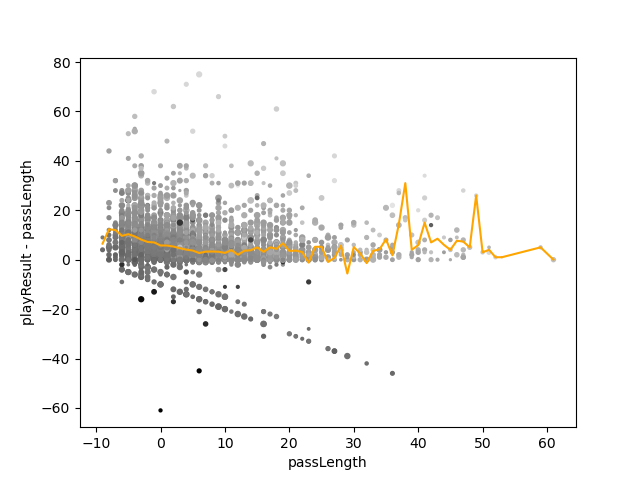
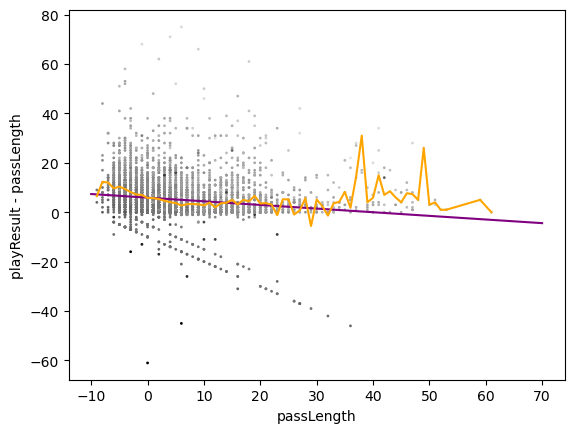
fix some typos, add regression and conclusion bits

diff --git a/final-report/report.tex b/final-report/report.tex
@@ -334,7 +334,7 @@ performed (location, likelihood of success and number of tackles). To this end,
 we aimed to find correlations between factors such as height and
 weight of player, and frequency and likelihood of success of tackles, as well as
 frequency analysis for examining which teams/players tend to engage in tackles.
-Analysis methods included both the naives Bayes and decision tree classifiers.
+Analysis methods included both the naive Bayes and decision tree classifiers.
 
 Expanding beyond this, we also explored how strong of a correlation exists
 between defensive players making or missing tackles and their team winning games.
@@ -418,10 +418,10 @@ each other at the time of tackle.
 
 \section{Evaluation}
 
-\subsection{Distance Before Tackle}
+\subsection{Exploratory analysis}
 
 By analyzing the frequency of \verb|yardsToGo|, we were able to determine that
-the vast majority of tackles occurred at around 10 yards. This is likely because
+the vast majority of plays started at 10 yards to go. This is likely because
 10 yards is the starting point for each round. We also see more observations
 less than 10 yards to go than greater meaning moving forward is much more likely
 than backwards. The slight increase observed at 15 or 20 yards to go is likely
@@ -434,6 +434,8 @@ due to penalties as -5 or -10 yards are common penalties.
   \Description{A histogram of yards to go, has a peak at 10, more observations
   less than 10 than greater, and smaller peaks at 5, 10, -5, -10}
 \end{figure}
+
+This also shows that most tackles occur fairly close to the starting line of the play.
 
 \subsection{Classifier Predictions of Tackle Success}
 
@@ -645,10 +647,12 @@ the defenders.
 
 Examining the difference between play result and pass length (figure
 \ref{fig:pl}) as a proxy for the amount of distance an offensive player goes
-before being tackled, we can see that in the range of approximately [-8,8], the
+before being tackled, we can see that in the range of approximately [-5,8], the
 average distance before tackle decreases as the pass length increases probably
 because at these distances, other team members can help prevent the ball carrier
-from being tackled.
+from being tackled. The average distance covered changes by -0.76231569 yards
+for each extra yard the pass covers. Note that this linear regression has score
+of 0.027 which indicates the data is likely not linear.
 
 We can also see that the play result seems to be the primary variable used by
 the NFL to predict the expected score for a game(represented by the color of a
@@ -760,10 +764,11 @@ plays.
 \subsection{Utilization of tracking data}
 
 We had considered using temporal data particularly the tracking data to see if
-we can find any patterns over time. However, this may be difficult due to the
+we can find any patterns over time. However, this was difficult due to the
 lack of historical data, short period of the tracking data, and its
 incompleteness i.e. only including a few frames around each notable event in the
-game. This was deemed to be outside the scope of the project.
+game. This was deemed to be outside the scope of the project though possible of
+interest for future projects.
 
 \subsection{Reflection}
 
@@ -799,15 +804,23 @@ that may result.
 
 \subsection{Predicting tackle success}
 
-We used three main methods of prediction.
+We used three main methods of prediction of tackles' success:
+clustering tackles by position, speed, etc and finding clusters of success or failure,
+using classifiers and to predict whether a tackle will occur and if it succeeds,
+and analyzing potential offensive and defensive strategies to see if they have an effect.
 
-\subsubsection{Exploratory analysis}
+% \subsubsection{Exploratory analysis}
+Most tackles occur fairly close to the starting line of a play (i.e. with 10 yards to go)
+generally ahead of it. Additionally, fouls by either team can move the starting
+point by 5 or 10 which can be identified as oddities in the data.
 
-% TODO: Add conclusion (Isaac & Sean)
-
-\subsubsection{Grouping tackles}
-
-% TODO: Add conclusion (Tim & Sean)
+% \subsubsection{Grouping tackles}
+Attempting to group tackles using k-means clustering, we were unable to find
+any significant clusters of failure or success. We were able to determine that
+tackles tend to be more densely clustered close to the center of the field and
+players are likely to be going in the same directions when tackling and the ball
+carrier tends to be going at higher speed. Players also tend to have lower speed
+and acceleration at the moment of tackle regardless of success.
 
 \subsubsection{Classifying tackles}
 
@@ -825,7 +838,8 @@ of being tackled.
 
 \subsection{Offensive strategies}
 
-We tested three offensive strategies for their usefulness.
+We tested three offensive strategies for their usefulness:
+the weight of running backs, increasing passing yards, and offensive formations.
 
 \subsubsection{Optimizing the weight of running backs}
 
@@ -836,7 +850,11 @@ between running back weight and missed tackles.
 
 \subsubsection{Increasing passing yards}
 
-% TODO: Add conclusion (Sean)
+With shorter passes, the distance players can go before being tackled is
+decreasing possibly because they are more likely to get surrounded. This effect
+is on average overshadowed by the extra yards gained by longer passes.
+There is also very little data for long passes but there is some data to suggest
+that long passes can lead to longer runs without being tackled.
 
 \subsubsection{Choosing specific offensive formation types}
 
